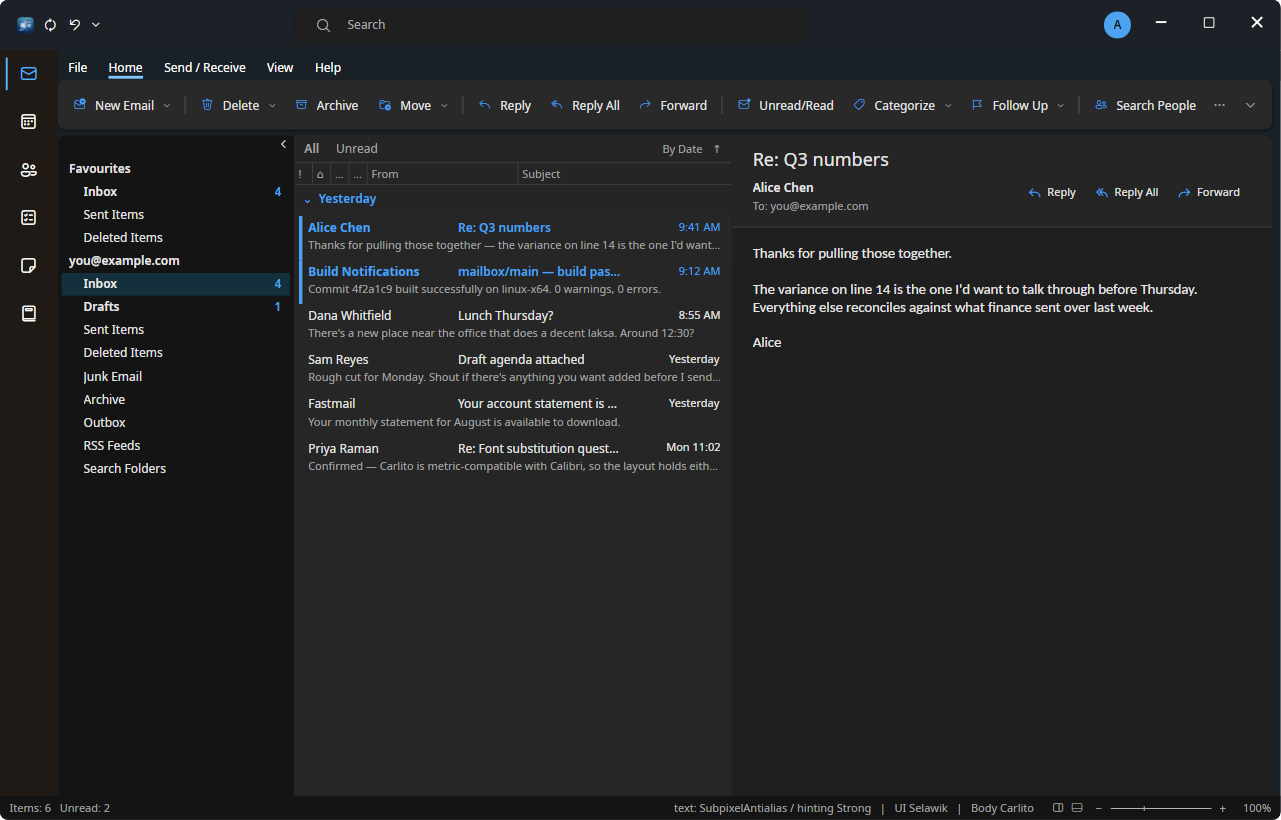
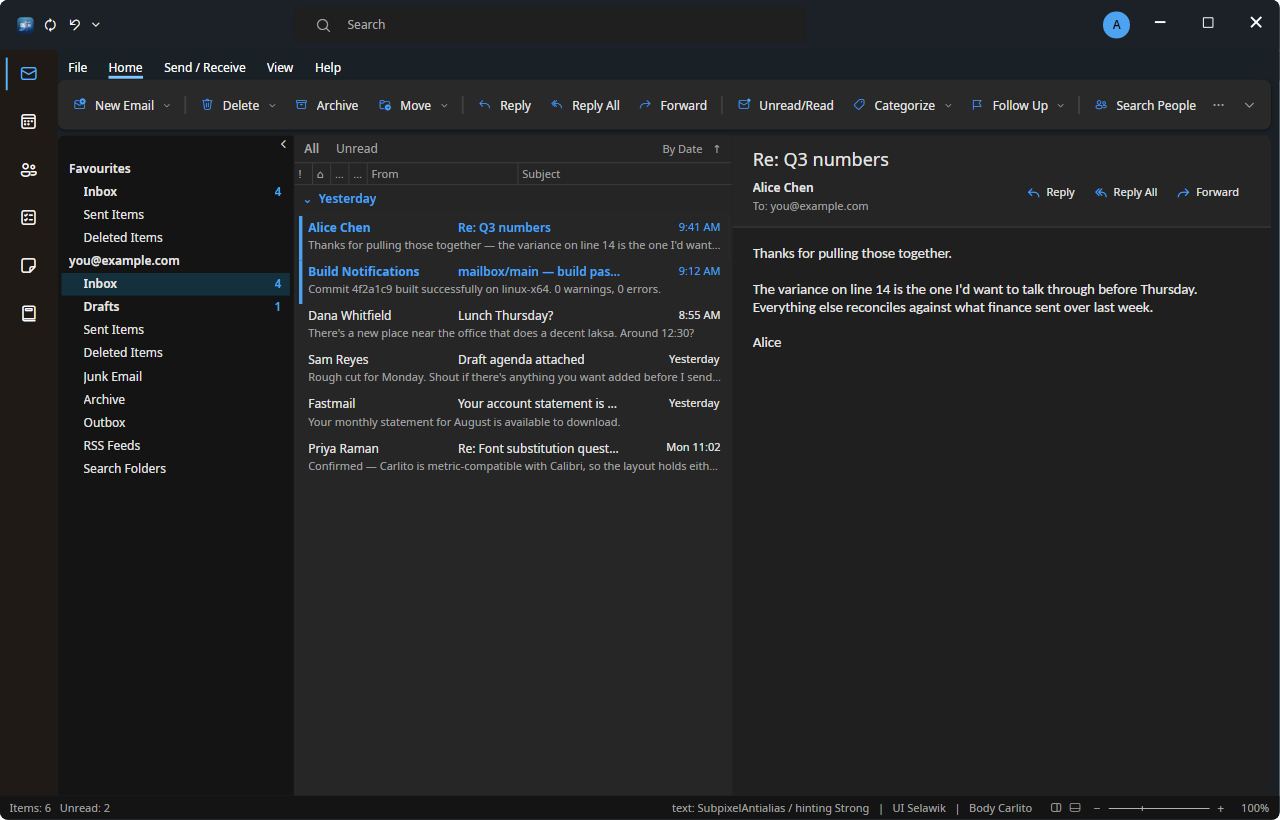
Drop the system frame so the rounded window has no square edge
The decoration frame is drawn square. Around a window with rounded
corners it traced a hard right angle over the curve, leaving a
transparent wedge between the frame and the corner — the triangles.

Removing it also removes the compositor's resize borders, so the window
provides its own: a six-pixel band along each edge that picks the
matching cursor and starts a resize drag.

diff --git a/src/Mailbox.App/Views/MainWindow.axaml.cs b/src/Mailbox.App/Views/MainWindow.axaml.cs
@@ -1,3 +1,4 @@
+using Avalonia;
 using Avalonia.Controls;
 using Avalonia.Input;
 using Avalonia.Markup.Xaml;
@@ -178,6 +179,73 @@ public partial class MainWindow : Window
     /// bar, double-click to maximize. Avalonia gives us the extended client area but none of
     /// the behaviour, so all of it is ours.
     /// </summary>
+    /// <summary>
+    /// Width of the invisible band along each window edge that starts a resize.
+    /// </summary>
+    /// <remarks>
+    /// The window carries no system decoration — that frame is drawn square, and against a
+    /// window with rounded corners it left a hard right angle around the curve with a
+    /// transparent wedge between the two. Dropping it takes the compositor's resize borders
+    /// with it, so the window grows its own.
+    /// </remarks>
+    private const double ResizeMargin = 6;
+
+    private static readonly (WindowEdge Edge, StandardCursorType Cursor)[] EdgeCursors =
+    [
+        (WindowEdge.NorthWest, StandardCursorType.TopLeftCorner),
+        (WindowEdge.NorthEast, StandardCursorType.TopRightCorner),
+        (WindowEdge.SouthWest, StandardCursorType.BottomLeftCorner),
+        (WindowEdge.SouthEast, StandardCursorType.BottomRightCorner),
+        (WindowEdge.North, StandardCursorType.TopSide),
+        (WindowEdge.South, StandardCursorType.BottomSide),
+        (WindowEdge.West, StandardCursorType.LeftSide),
+        (WindowEdge.East, StandardCursorType.RightSide),
+    ];
+
+    /// <summary>Which edge the pointer is over, or null when it is not near one.</summary>
+    private WindowEdge? EdgeAt(Point p)
+    {
+        if (WindowState != WindowState.Normal) return null;
+
+        var west = p.X <= ResizeMargin;
+        var east = p.X >= Bounds.Width - ResizeMargin;
+        var north = p.Y <= ResizeMargin;
+        var south = p.Y >= Bounds.Height - ResizeMargin;
+
+        return (north, south, west, east) switch
+        {
+            (true, _, true, _) => WindowEdge.NorthWest,
+            (true, _, _, true) => WindowEdge.NorthEast,
+            (_, true, true, _) => WindowEdge.SouthWest,
+            (_, true, _, true) => WindowEdge.SouthEast,
+            (true, _, _, _) => WindowEdge.North,
+            (_, true, _, _) => WindowEdge.South,
+            (_, _, true, _) => WindowEdge.West,
+            (_, _, _, true) => WindowEdge.East,
+            _ => null,
+        };
+    }
+
+    protected override void OnPointerMoved(PointerEventArgs e)
+    {
+        base.OnPointerMoved(e);
+
+        Cursor = EdgeAt(e.GetPosition(this)) is { } edge
+            ? new Cursor(EdgeCursors.First(c => c.Edge == edge).Cursor)
+            : Cursor.Default;
+    }
+
+    protected override void OnPointerPressed(PointerPressedEventArgs e)
+    {
+        base.OnPointerPressed(e);
+
+        if (!e.GetCurrentPoint(this).Properties.IsLeftButtonPressed) return;
+        if (EdgeAt(e.GetPosition(this)) is not { } edge) return;
+
+        e.Handled = true;
+        BeginResizeDrag(edge, e);
+    }
+
     private void SetUpTitleBar()
     {
         var caption = new CaptionButtons(this);
